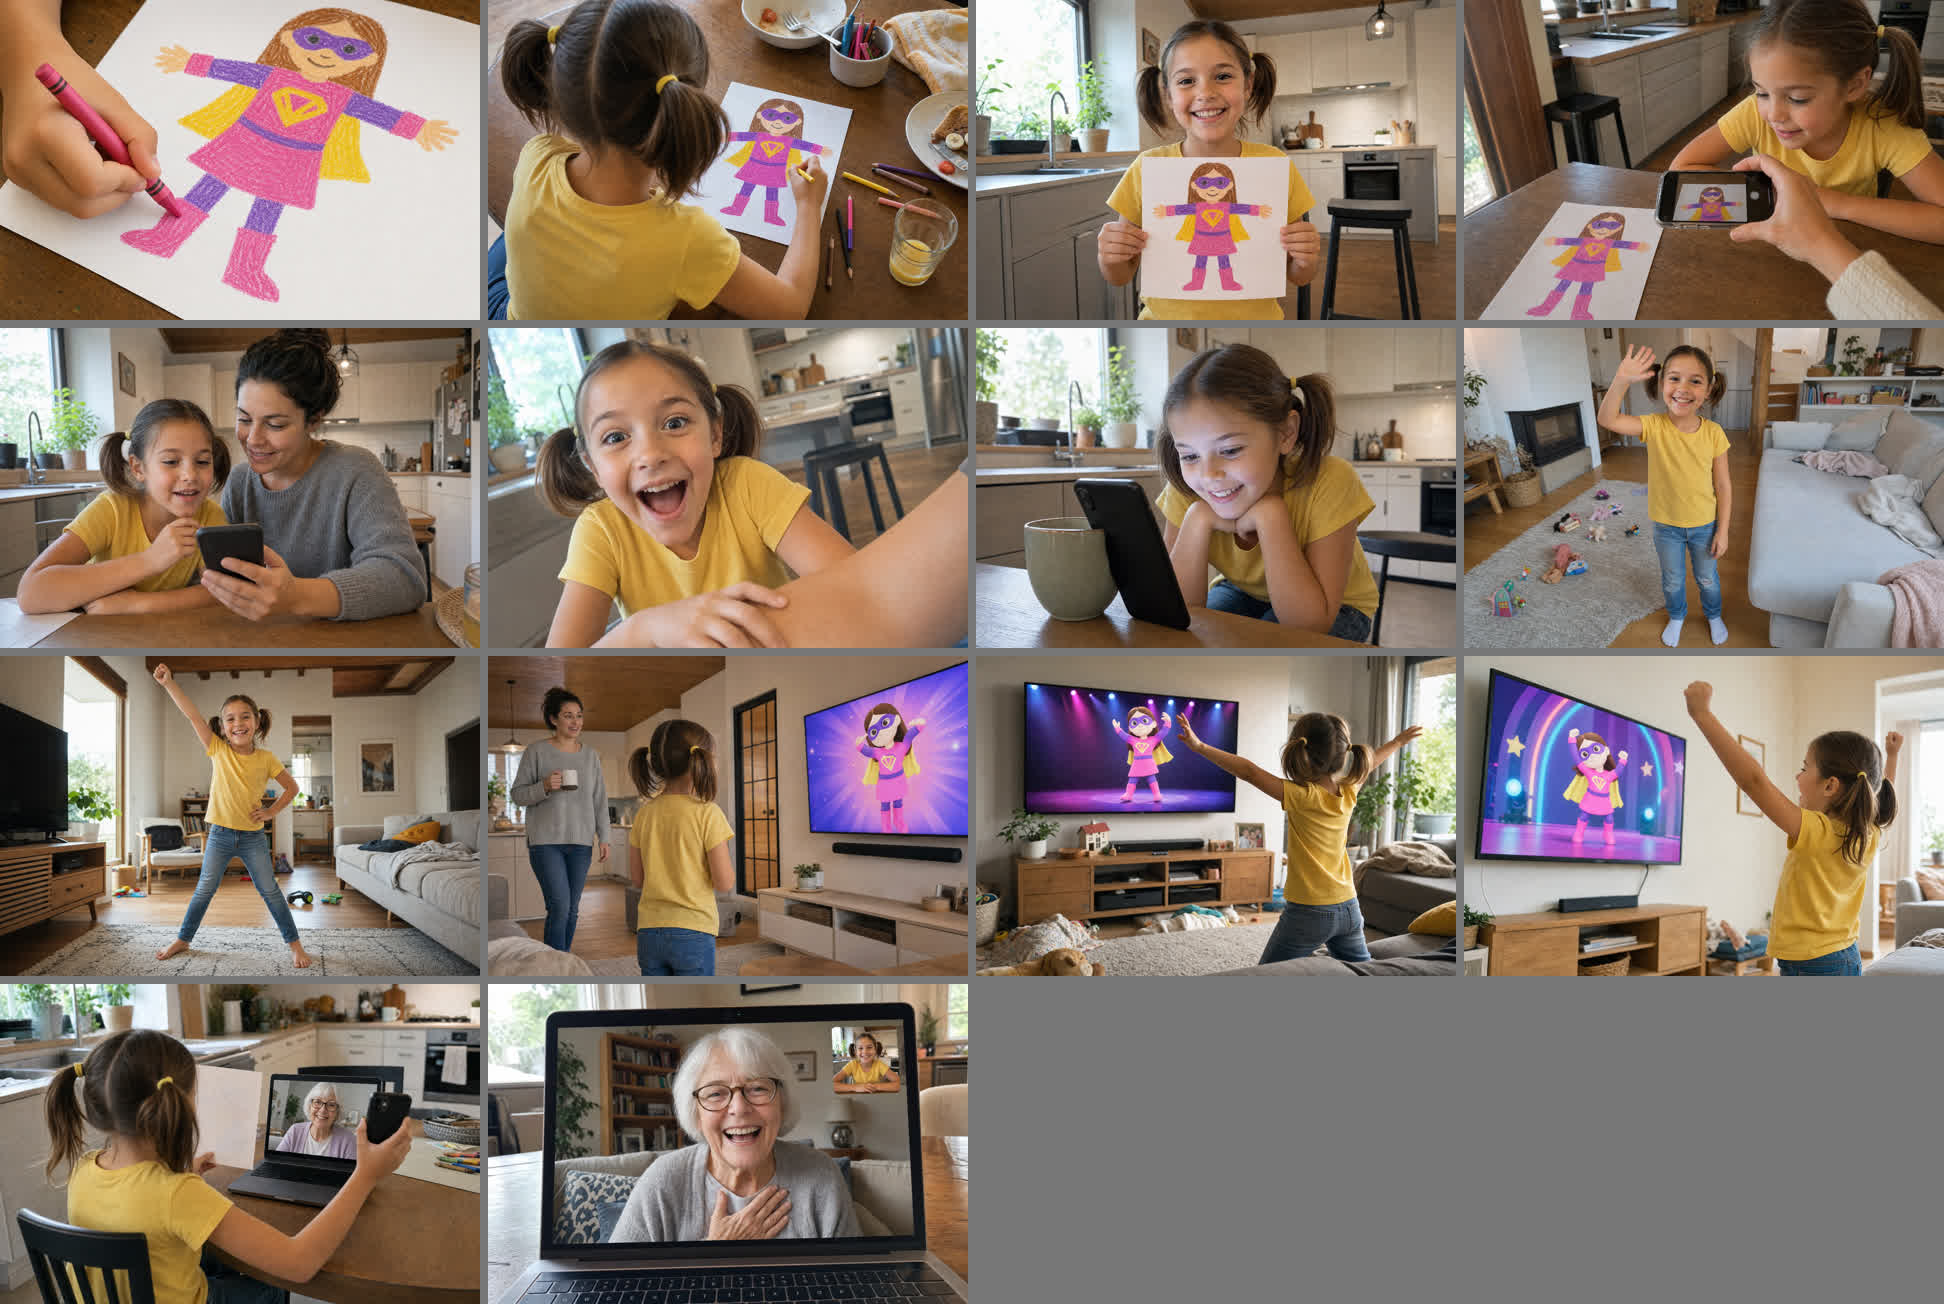
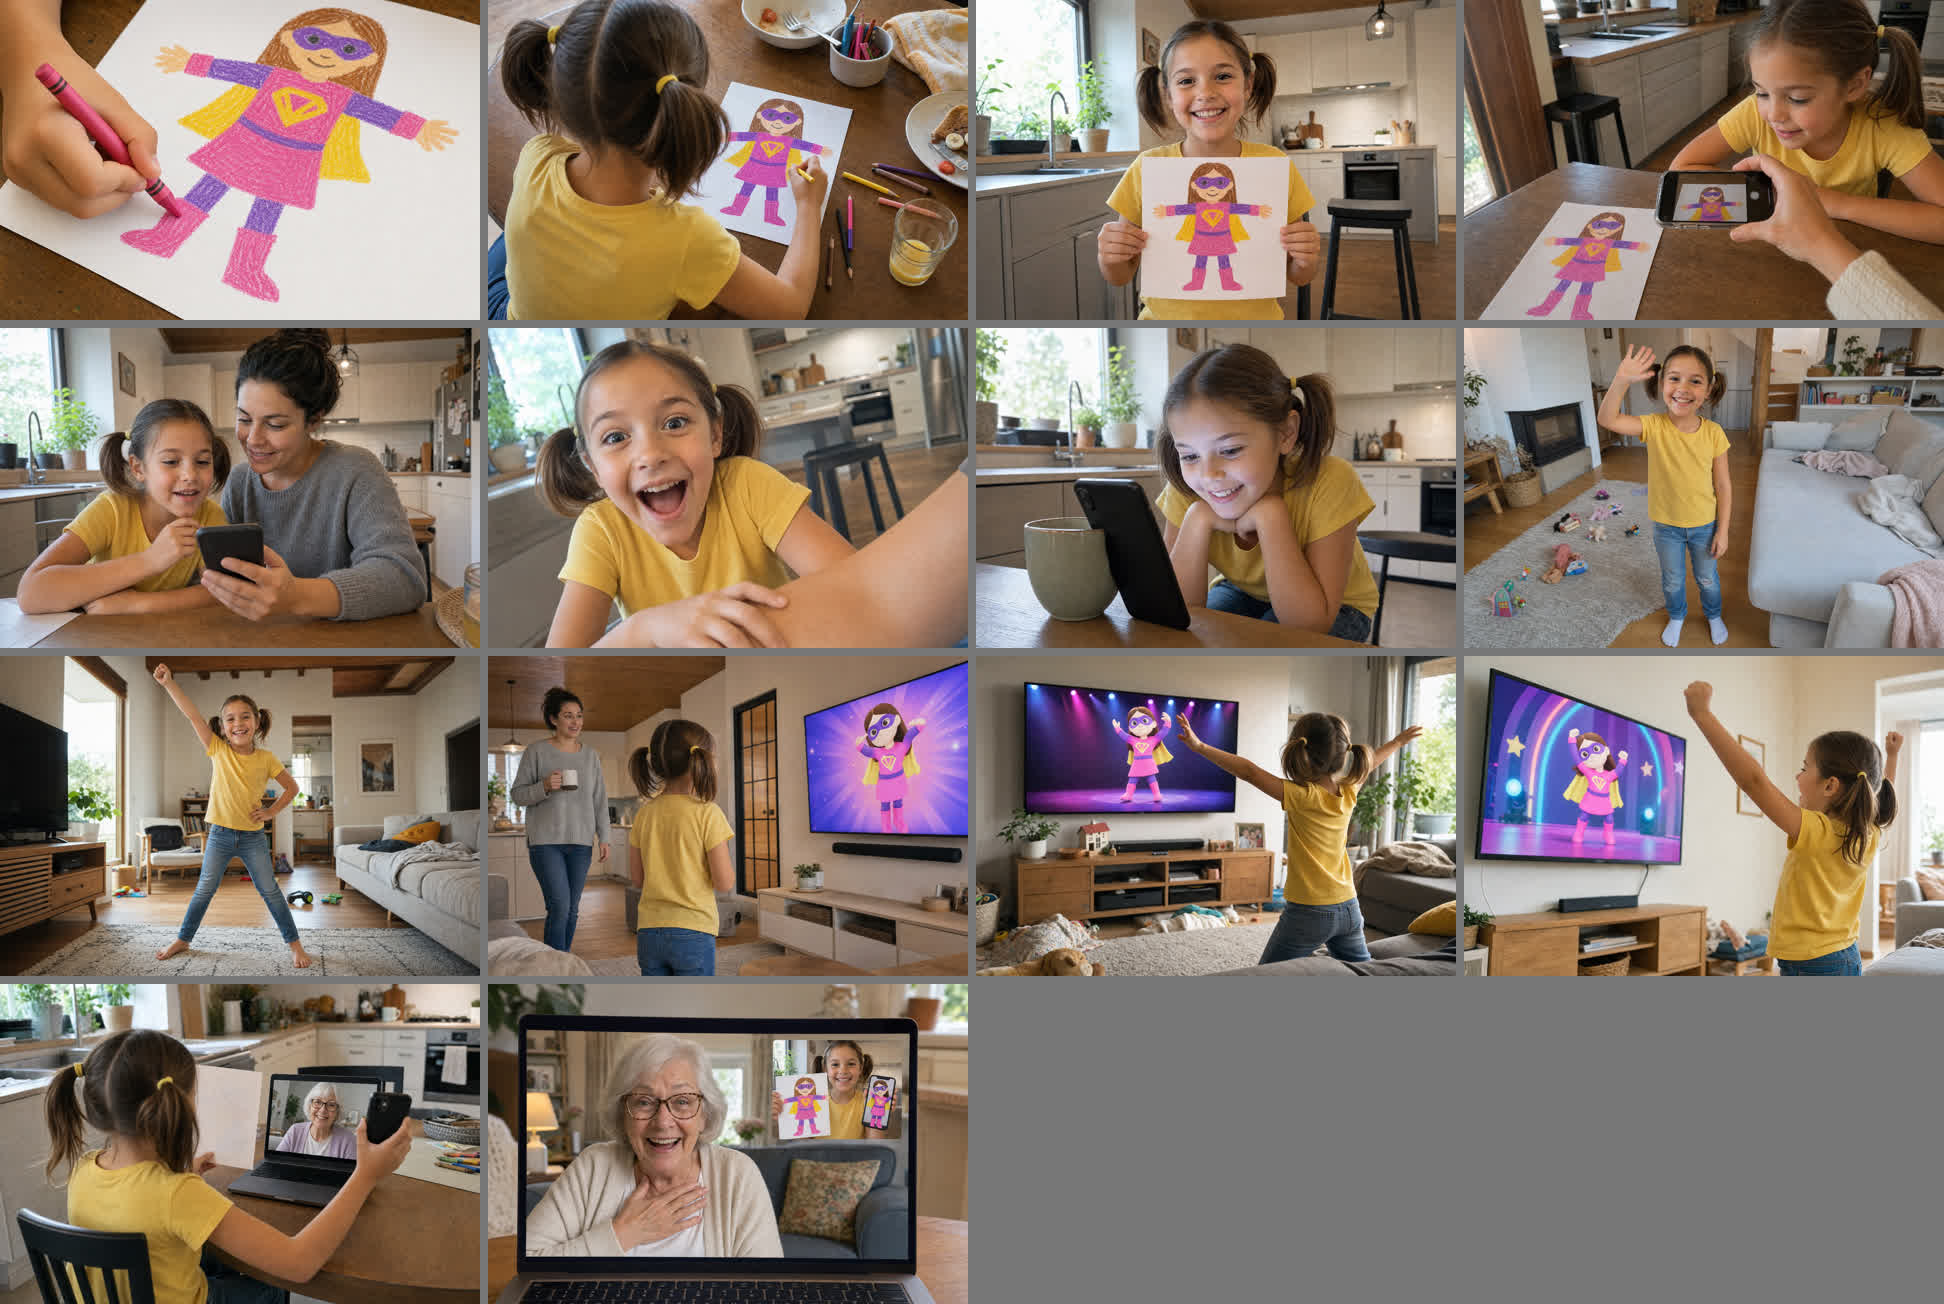
Content: keyframe 5.2, the self-view shows the drawing and the phone (Maya)
Claude-Session: https://claude.ai/code/session_01XZmifecsBS5ugU9HXG6BDm

Changed region(s): [[0.2469, 0.7362, 0.5247, 1.0]]

diff --git a/scripts/content/keyframes.py b/scripts/content/keyframes.py
@@ -35,7 +35,7 @@ SHOTS = {
     "4.1": ([MAYA, VIOLET], "Living room, shot from behind the girl at three-quarter: she dances in front of a big TV on the wall, arms up wide; the TV faces her and shows the 3D cartoon superhero girl from the second reference image dancing on a stage with colourful lights. We see the girl's back and side, and the TV screen at an angle beyond her. Sofa and toys around."),
     "4.2": ([MAYA, VIOLET], "Living room, three-quarter from behind and to the side: the girl cheers with both fists in the air, laughing, facing a big TV on the wall. The TV screen (seen at an angle) shows EXACTLY the 3D cartoon superhero girl in the second reference image (pink dress, purple mask, purple sleeves, yellow cape, brown hair, pink boots) dancing on a colourful stage."),
     "5.1": ([MAYA, DRAW, VIOLET], "Kitchen table, three-quarter from behind the girl's shoulder: a laptop faces her, its screen showing a video call with a smiling grandmother (white hair, glasses, cardigan). The girl holds up, side by side at one height and close to the middle of the frame, in her left hand the crayon drawing from the second reference image facing the laptop, and in her right hand a phone facing the laptop showing the 3D superhero girl from the third reference image. We see the laptop screen past her shoulder, the back of the phone and the back of the paper (the drawing faces Grandma)."),
-    "5.2": ([MAYA], "A laptop screen filling most of the frame, showing a video call: a grandmother (white hair, glasses, cardigan) in her own cosy living room laughs with her hand on her heart, delighted. In the corner of the laptop screen, a small picture-in-picture of the girl from the reference image."),
+    "5.2": ([MAYA, DRAW, VIOLET], "A laptop screen filling most of the frame, showing a video call: a grandmother (white hair, glasses, cardigan) in her own cosy living room, her eyes on the screen, laughing with her hand on her heart, delighted. In the small picture-in-picture self-view in the corner of the laptop screen: the girl from the first reference image holding up, side by side, the crayon drawing from the second reference image (front facing the camera) in one hand and a phone showing the 3D superhero girl from the third reference image in the other. Both her hands and both things are clearly visible in that small self-view."),
 }
 
 

diff --git a/docs/content/keyframes/README.md b/docs/content/keyframes/README.md
@@ -119,3 +119,5 @@ Who sees what, checked: 1.1 the drawing upright for her (her hand comes from her
 ### Sightline re-makes done (Tom, 2026-11-23)
 
 Who sees what: 3.1 the phone faces Maya (we see its back), she looks into it. 4.2 the TV shows Violet; Maya cheers facing it. 5.1 Grandma on the laptop faces Maya; Maya holds the drawing and the phone up to it, both facing the webcam (we see their backs). All sightline re-makes are now in: 1.1, 1.2, 3.1, 3.4, 4.1, 4.2, 5.1.
+
+5.2 re-made (Maya's fix): the self-view on Grandma's call shows Maya holding the drawing and the phone, as in 5.1.
